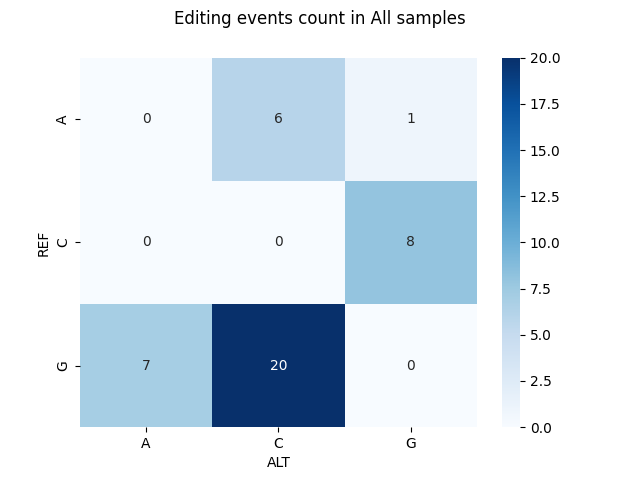
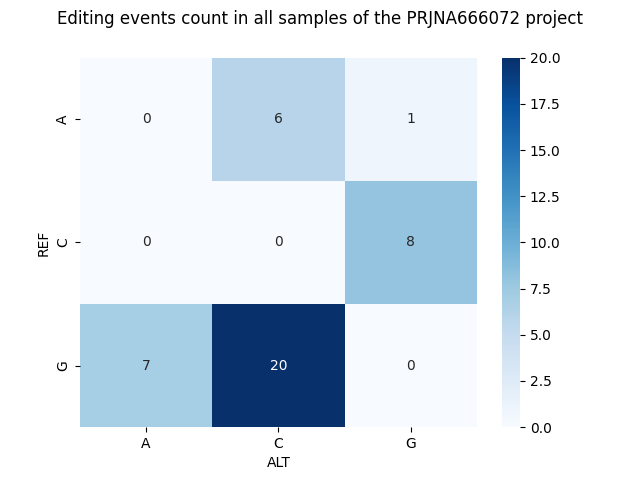
Add hist of VAF

Changed region(s): [[0.0938, 0.0, 0.9062, 0.0625]]

diff --git a/scripts/full_plots.py b/scripts/full_plots.py
@@ -8,6 +8,7 @@ from typing import Dict, Callable
 from utils import retrieve_name_from_filename, read_csv
 from heatmap import plot_ref_alt_heatmap
 from barplot import plot_ref_alt_barplot, HUE_COL, df_for_barplot
+from histogram import plot_vaf_histogram
 
 import pandas as pd
 
@@ -15,31 +16,40 @@ import pandas as pd
 def concat_df_dict(
     df_dict: Dict[str, pd.DataFrame],
     func: Callable[[pd.DataFrame], pd.DataFrame] = None,
+    hue: str = HUE_COL,
 ) -> pd.DataFrame:
     data = pd.DataFrame({})
     for file_name, df in df_dict.items():
         if func is not None:
             df = func(df)
-        df[HUE_COL] = retrieve_name_from_filename(file_name)
+        df[hue] = retrieve_name_from_filename(file_name)
         data = pd.concat([data, df])
     return data.drop_duplicates(data.columns[:-1])
 
 
 def main():
-    result_barplot = sys.argv[1]
-    result_heatmap = sys.argv[2]
-    table_files = sys.argv[3:]
+    additional_figname = sys.argv[1]
+    result_barplot = sys.argv[2]
+    result_heatmap = sys.argv[3]
+    result_hist = sys.argv[4]
+    table_files = sys.argv[5:]
+
+    sup_title = f"all samples{additional_figname}"
 
     df_dict = {file_name: read_csv(file_name) for file_name in table_files}
 
     data_heatmap = concat_df_dict(df_dict)
-    plot_ref_alt_heatmap(
-        df=data_heatmap, name="All samples", result_heatmap=result_heatmap
-    )
+    plot_ref_alt_heatmap(df=data_heatmap, name=sup_title, result_heatmap=result_heatmap)
+
+    data_histplot = concat_df_dict(df_dict=df_dict)
+    plot_vaf_histogram(df=data_histplot, name=sup_title, result_hist=result_hist)
 
     data_barplot = concat_df_dict(df_dict=df_dict, func=df_for_barplot)
     plot_ref_alt_barplot(
-        df=data_barplot, name="All samples", result_barplot=result_barplot, hue=HUE_COL
+        df=data_barplot,
+        name=sup_title,
+        result_barplot=result_barplot,
+        hue=HUE_COL,
     )
 
     print("Events found: ", data_heatmap.shape[0])

diff --git a/main.go b/main.go
@@ -42,6 +42,7 @@ var (
 	resultTable                 string
 	resultHeatmapImage          string
 	resultBarplotImage          string
+	resultHistImage             string
 
 	reheaderedGenomeFile    string
 	genomeAnnotationBedFile string
@@ -105,6 +106,7 @@ func parseArgs() error {
 	resultTable = filepath.Join(resultsFolder, "tables/result-"+Accession+".tsv")
 	resultHeatmapImage = filepath.Join(resultsFolder, "heatmaps/result-heatmap-"+Accession+".png")
 	resultBarplotImage = filepath.Join(resultsFolder, "barplots/result-barplot-"+Accession+".png")
+	resultHistImage = filepath.Join(resultsFolder, "histograms/result-hist-"+Accession+".png")
 
 	reheaderedGenomeFile = removeExtFromFile(GenomeFile) + ".reheadered" + filepath.Ext(GenomeFile)
 
@@ -235,6 +237,11 @@ func main() {
 			resultFile: resultBarplotImage,
 			f:          generateBarplot(resultTable, resultBarplotImage),
 			logMessage: "Generating Barplot image",
+		},
+		{
+			resultFile: resultHistImage,
+			f:          generateHistplot(resultTable, resultHistImage),
+			logMessage: "Generating Histogram image",
 		},
 	}
 
@@ -672,6 +679,16 @@ func generateBarplot(table, resultBarplotImage string) func() error {
 		}
 		sr := shell.NewShellRunner(nil, nil, nil)
 		return sr.RunShell("python3", "scripts/barplot.py", table, resultBarplotImage)
+	}
+}
+
+func generateHistplot(table, resultHistImage string) func() error {
+	return func() error {
+		if err := pathForFile(resultHistImage); err != nil {
+			return err
+		}
+		sr := shell.NewShellRunner(nil, nil, nil)
+		return sr.RunShell("python3", "scripts/histogram.py", table, resultHistImage)
 	}
 }
 

diff --git a/scripts/histogram.py b/scripts/histogram.py
@@ -1,0 +1,45 @@
+#! /usr/bin/env python3
+
+"""plot figures for mirna editing events"""
+
+import sys
+
+import pandas as pd
+import seaborn as sns
+import matplotlib.pyplot as plt
+from utils import retrieve_name_from_filename, read_csv
+
+VAF_COL = "VAF"
+
+
+def plot_vaf_histogram(
+    df: pd.DataFrame, name: str, result_hist: str, x: str = VAF_COL, hue: str = None
+):
+    data = df.copy()
+    if data.shape[0] < 4:
+        return
+
+    sns.set_context("poster")
+    fig, ax = plt.subplots(figsize=(20, 14))
+    fig.suptitle(f"VAF distribution in {name}")
+    sns.histplot(
+        data=data,
+        x=x,
+        ax=ax,
+        hue=hue if hue else None,
+        kde=True,
+    )
+    fig.savefig(result_hist)
+
+
+def main():
+    file_name = sys.argv[1]
+    result_hist = sys.argv[2]
+
+    name = retrieve_name_from_filename(file_name)
+    df = read_csv(file_name)
+    plot_vaf_histogram(df=df, name=name, x=VAF_COL, result_hist=result_hist)
+
+
+if __name__ == "__main__":
+    main()

diff --git a/scripts/barplot.py b/scripts/barplot.py
@@ -67,6 +67,7 @@ def plot_ref_alt_barplot(
             )
         )
     )
+    ax.legend(loc="upper left")
     fig.savefig(result_barplot)
 
 
